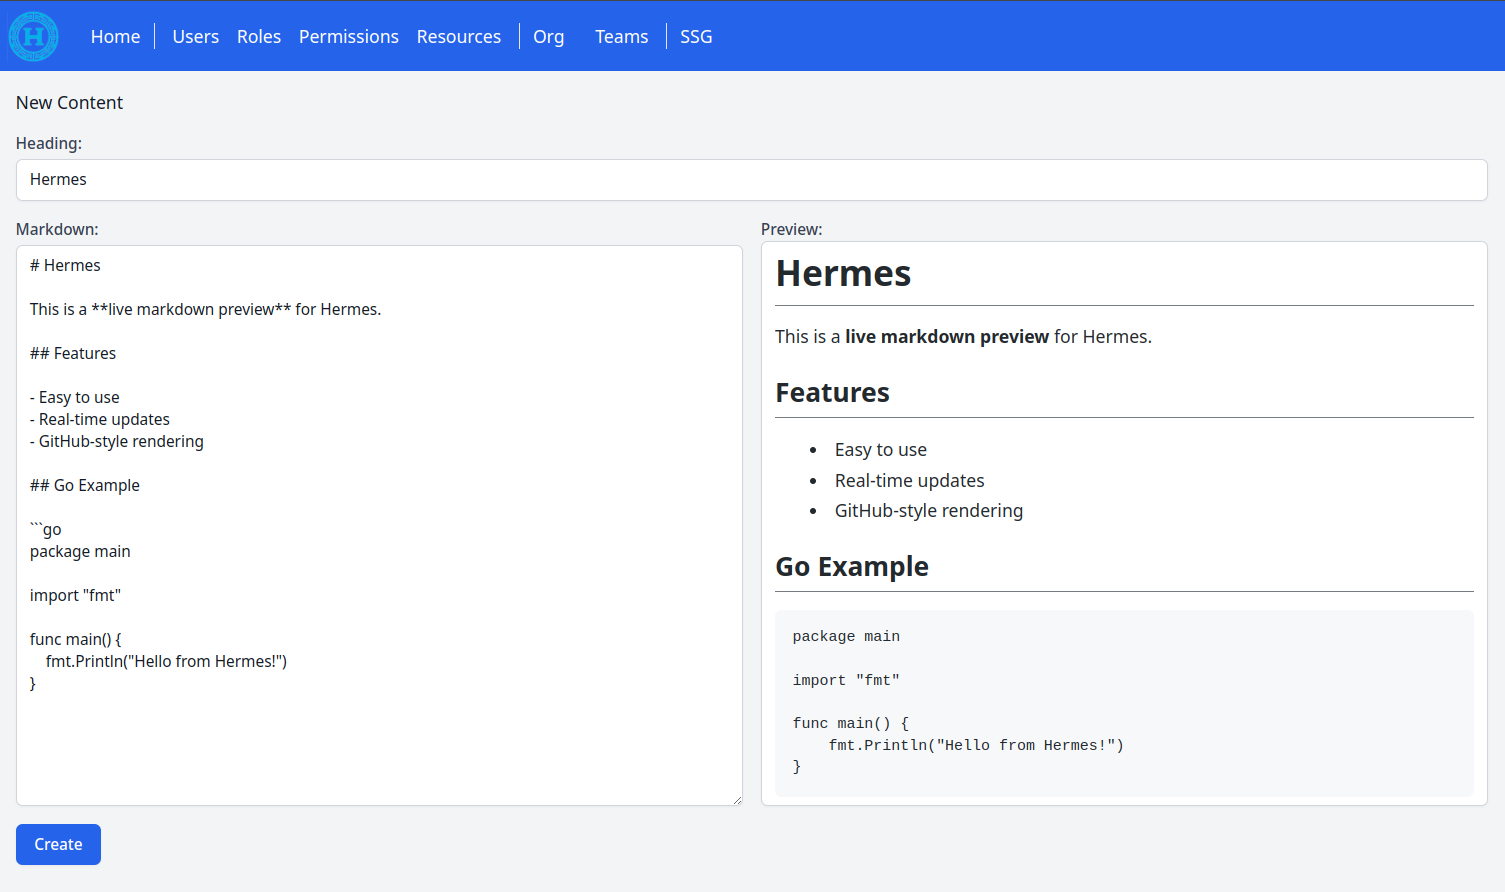
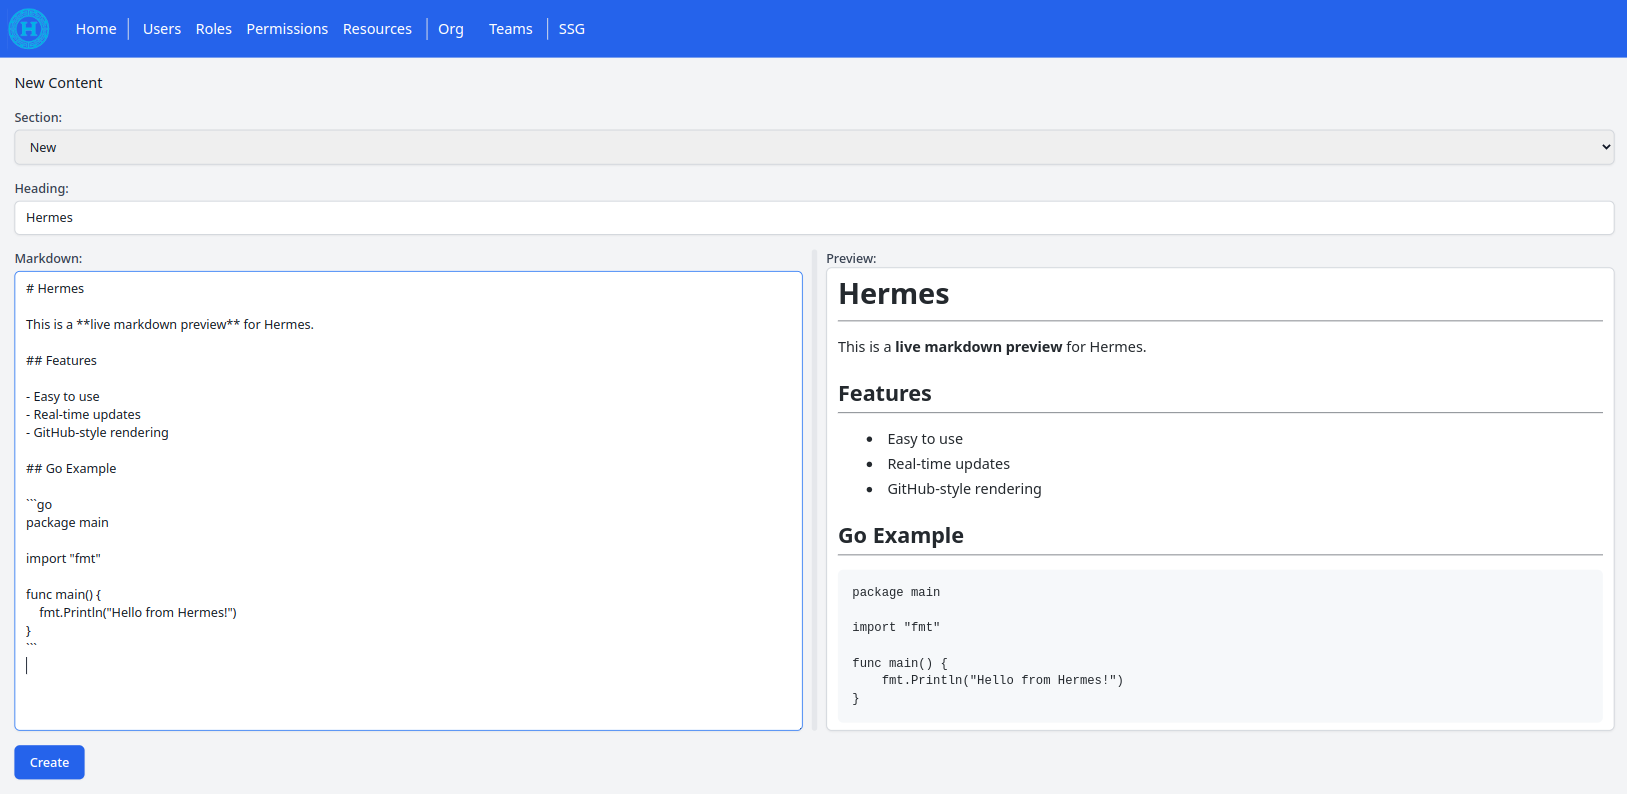
Update readme

diff --git a/internal/am/page.go b/internal/am/page.go
@@ -1,12 +1,10 @@
 package am
 
 import (
-	"fmt"
 	"net/http"
 	"net/url"
 	"path"
 
-	"github.com/google/uuid"
 	"github.com/gorilla/csrf"
 )
 
@@ -19,7 +17,7 @@ type Page struct {
 	Flash    Flash
 	Menu     *Menu
 	Feat     Feat
-	Selects  map[string][]SelectOption // For select/dropdown options and similar lists
+	Select   map[string][]SelectOpt // For select/dropdown options and similar lists
 }
 
 // Feat struct represents a feature with base path, feature name, and action.
@@ -29,10 +27,15 @@ type Feat struct {
 	PathSuffix string // The path suffix for the feature (i.e.: `/auth`)
 }
 
-// SelectOption struct represents an option for select/dropdown lists.
-type SelectOption struct {
+// SelectOpt struct represents an option for select/dropdown lists.
+type SelectOpt struct {
 	Value string
 	Label string
+}
+
+type Selectable interface {
+	OptValue() string
+	OptLabel() string
 }
 
 // NewPage creates a new Page with the given data.
@@ -100,70 +103,31 @@ func (p *Page) NewMenu(path string) *Menu {
 	return menu
 }
 
-// SetSelects sets multiple select option lists for selects/dropdowns.
-func (p *Page) SetSelects(selects map[string][]SelectOption) {
-	p.Selects = selects
+func (p *Page) SetSelects(selects map[string][]SelectOpt) {
+	p.Select = selects
 }
 
-// AddSelect adds or updates a single select option list for a select/dropdown.
-func (p *Page) AddSelect(key string, values []SelectOption) {
-	if p.Selects == nil {
-		p.Selects = make(map[string][]SelectOption)
+func (p *Page) AddSelect(key string, values []SelectOpt) {
+	if p.Select == nil {
+		p.Select = make(map[string][]SelectOpt)
 	}
-	p.Selects[key] = values
+	p.Select[key] = values
 }
 
-// GetSelects retrieves a select option list by key from the Selects map.
-func (p *Page) GetSelects(key string) []SelectOption {
-	if p.Selects == nil {
+func (p *Page) GetSelects(key string) []SelectOpt {
+	if p.Select == nil {
 		return nil
 	}
-	return p.Selects[key]
+	return p.Select[key]
 }
 
-// ToAnySlice converts a slice of any type to a slice of any (for use in Page.Selects).
-func ToAnySlice[T any](in []T) []any {
-	out := make([]any, len(in))
+// ToSelectOpt extracts select options from a slice using OptValue() and OptLabel().
+func ToSelectOpt[T Selectable](in []T) []SelectOpt {
+	out := make([]SelectOpt, len(in))
 	for i, v := range in {
-		out[i] = v
-	}
-	return out
-}
-
-// ToSelectOptions converts a slice of models (with ID() and Name fields) to []SelectOption.
-func ToSelectOptions[T interface {
-	ID() any
-	GetName() string
-}](in []T) []SelectOption {
-	out := make([]SelectOption, len(in))
-	for i, v := range in {
-		out[i] = SelectOption{
-			Value: fmt.Sprintf("%v", v.ID()),
-			Label: v.GetName(),
-		}
-	}
-	return out
-}
-
-// ToSelectOptionsWith extracts select options from a slice using custom value and label functions.
-func ToSelectOptionsWith[T any](in []T, valueFn func(T) string, labelFn func(T) string) []SelectOption {
-	out := make([]SelectOption, len(in))
-	for i, v := range in {
-		out[i] = SelectOption{
-			Value: valueFn(v),
-			Label: labelFn(v),
-		}
-	}
-	return out
-}
-
-// ToSelectOptionsWithID extracts select options from a slice using a custom label function. Value is always ID() as string.
-func ToSelectOptionsWithID[T interface{ ID() uuid.UUID }](in []T, labelFn func(T) string) []SelectOption {
-	out := make([]SelectOption, len(in))
-	for i, v := range in {
-		out[i] = SelectOption{
-			Value: v.ID().String(),
-			Label: labelFn(v),
+		out[i] = SelectOpt{
+			Value: v.OptValue(),
+			Label: v.OptLabel(),
 		}
 	}
 	return out

diff --git a/internal/feat/ssg/webhandlercontent.go b/internal/feat/ssg/webhandlercontent.go
@@ -76,9 +76,7 @@ func (h *WebHandler) newContent(w http.ResponseWriter, r *http.Request, form Con
 	page.Form.SetAction(am.CreatePath(ssgPath, contentPath))
 	page.Form.SetSubmitButtonText("Create")
 
-	sectionLabel := func(s Section) string { return s.Name }
-	sectionOptions := am.ToSelectOptionsWithID(sections, sectionLabel)
-	page.AddSelect("sections", sectionOptions)
+	page.AddSelect("sections", am.ToSelectOpt(sections))
 
 	menu := page.NewMenu(ssgPath)
 	menu.AddListItem(content)

diff --git a/internal/feat/ssg/section.go b/internal/feat/ssg/section.go
@@ -36,6 +36,14 @@ func (s *Section) Slug() string {
 	return am.Normalize(s.Name) + "-" + s.ShortID()
 }
 
+func (s Section) OptValue() string {
+	return s.ID().String()
+}
+
+func (s Section) OptLabel() string {
+	return s.Name
+}
+
 // UnmarshalJSON ensures Model is always initialized after unmarshal.
 func (s *Section) UnmarshalJSON(data []byte) error {
 	type Alias Section

diff --git a/internal/feat/ssg/content.go b/internal/feat/ssg/content.go
@@ -31,6 +31,10 @@ func (r *Content) Slug() string {
 	return am.Normalize(r.Heading) + "-" + r.ShortID()
 }
 
+func (r *Content) OptLabel() string {
+	return r.Heading
+}
+
 // UnmarshalJSON ensures Model is always initialized after unmarshal.
 func (r *Content) UnmarshalJSON(data []byte) error {
 	type Alias Content

diff --git a/README.md b/README.md
@@ -8,6 +8,8 @@ It aims to provide a clean, fast, and flexible way to build static websites. Whi
 
 ## Notes
 
+Although Hermes provides a web interface, it is fundamentally a static site generator (SSG). All content is managed locally (or in the cloud if the service runs on a remote server), and the output is pure HTML, suitable for hosting on platforms like GitHub Pages. Hermes will handle publishing both manually and automatically. Additionally, you can continue to write your markdown content using a text editor if that workflow is more natural or practical for you, rather than using the web interface.
+
 Hermes implements an authentication and authorization system with support for multiple users and teams. However, the initial implementation is designed for single-user operation on a personal machine (localhost). Multi-user support will be optimized in future iterations.
 
 All authentication features should work, but since the SSG feature shares some logic with authorization and is being iteratively improved to create a simple API, some changes may impact authentication-related functionality. Please keep this in mind as the system evolves.
